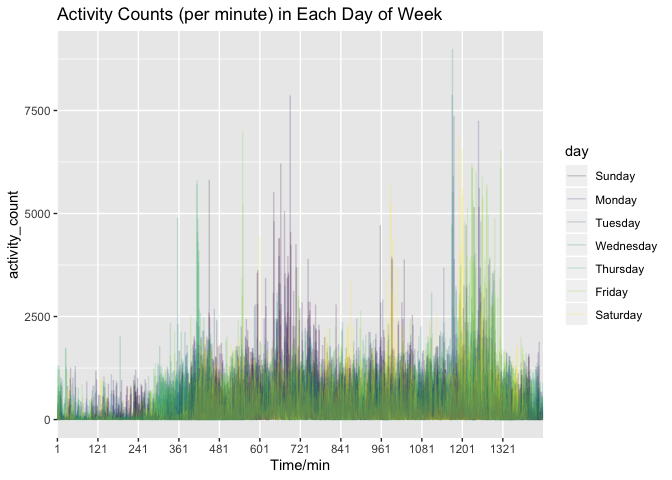
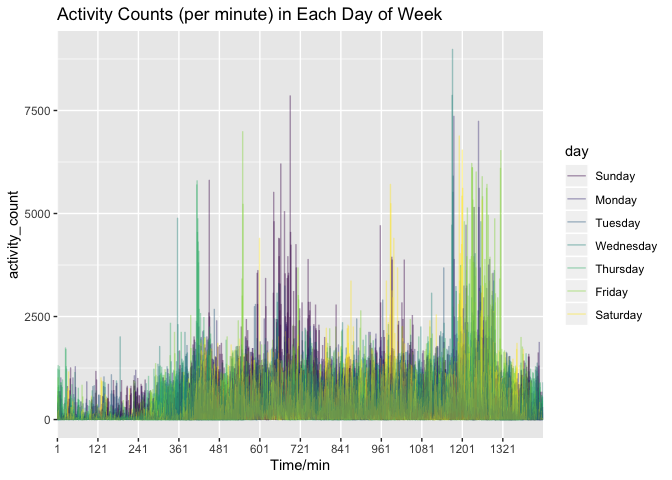
version 2 refine: 1. problem 3 dataframe accelerometer_chf is restructrued with new variable day_order. 2. problem 3 :make daily activity table to wider format. 3.problem 2 dataframe brfss_overall_health: rename two variable: state, location

Changed region(s): [[0.0625, 0.2188, 0.8125, 0.875], [0.8438, 0.5938, 0.875, 0.6562], [0.8438, 0.5, 0.875, 0.5625]]

diff --git a/p8105_hw3_ym2771.md b/p8105_hw3_ym2771.md
@@ -93,10 +93,15 @@ g
 
 ![](p8105_hw3_ym2771_files/figure-gfm/unnamed-chunk-2-1.png)<!-- -->
 
-  - **comments**: There are 39 aisles in total and the top5 most popular
-    aisle is fresh vegetables, fresh fruits, packaged vegetables fruits,
-    yogurt, packaged cheese, reflecting the most urgent demands of
-    online-shopping customers.
+### comments:
+
+In dataset instacart, there are 134 aisles in total. There are 39 aisles
+bigger than 10,000 in total and the top5 most popular aisle is fresh
+vegetables, fresh fruits, packaged vegetables fruits, yogurt, packaged
+cheese, reflecting the most urgent demands of online-shopping customers.
+As shown in the plot, fresh vegetables, fresh fruits are extremely
+popular, the counts of this two aisles are nearly 150,000, far more
+larger than the latter ranks.
 
 ### Make a table showing the three most popular items in three aisles
 
@@ -124,7 +129,7 @@ knitr::kable(instacart_3aisle_table)
 | packaged vegetables fruits | Organic Raspberries                           |  5546 |    2 |
 | packaged vegetables fruits | Organic Blueberries                           |  4966 |    3 |
 
-  - comments:
+### comments:
 
 **Firstly**, there are huge differences among the demands of aisles, the
 maximum overall demand is for packaged vegetables fruits, then baking
@@ -180,9 +185,17 @@ data("brfss_smart2010")
 brfss_overall_health <- 
     brfss_smart2010 %>%
     janitor::clean_names() %>% 
-    filter(topic == "Overall Health", response %in% c("Excellent", "Very good", "Good", "Fair", "Poor")) %>% 
-    mutate(response = factor(response,levels = c("Poor","Fair","Good","Very good","Excellent" ), ordered = T))
+    filter(topic == "Overall Health", response %in% c("Excellent", "Very good", "Good", "Fair", "Poor")) %>%
+    mutate(state = factor(locationabbr), location = locationdesc, response = factor(response,levels = c("Poor","Fair","Good","Very good","Excellent" ), ordered = T)) %>% 
+    select(year, state, location, everything(), -locationabbr, -locationdesc)
 ```
+
+### Data description:
+
+In the total dataset, there are 10625 observations and 23 variables. In
+this analysis, the key variables are year, state, location, data\_value
+and
+response.
 
 ## Exploratary analysis
 
@@ -191,37 +204,37 @@ brfss_overall_health <-
 ``` r
 states_with_7m <- 
     brfss_overall_health %>% 
-    group_by(year, locationabbr) %>% 
-    summarise(count = n_distinct(locationdesc)) %>% 
+    group_by(year, state) %>% 
+    summarise(count = n_distinct(location)) %>% 
     filter(count >= 7, year %in% c(2010,2002)) %>% 
     pivot_wider(names_from = year, values_from = count )
 
 knitr::kable(states_with_7m)
 ```
 
-| locationabbr | 2002 | 2010 |
-| :----------- | ---: | ---: |
-| CT           |    7 |   NA |
-| FL           |    7 |   41 |
-| MA           |    8 |    9 |
-| NC           |    7 |   12 |
-| NJ           |    8 |   19 |
-| PA           |   10 |    7 |
-| CA           |   NA |   12 |
-| CO           |   NA |    7 |
-| MD           |   NA |   12 |
-| NE           |   NA |   10 |
-| NY           |   NA |    9 |
-| OH           |   NA |    8 |
-| SC           |   NA |    7 |
-| TX           |   NA |   16 |
-| WA           |   NA |   10 |
+| state | 2002 | 2010 |
+| :---- | ---: | ---: |
+| CT    |    7 |   NA |
+| FL    |    7 |   41 |
+| MA    |    8 |    9 |
+| NC    |    7 |   12 |
+| NJ    |    8 |   19 |
+| PA    |   10 |    7 |
+| CA    |   NA |   12 |
+| CO    |   NA |    7 |
+| MD    |   NA |   12 |
+| NE    |   NA |   10 |
+| NY    |   NA |    9 |
+| OH    |   NA |    8 |
+| SC    |   NA |    7 |
+| TX    |   NA |   16 |
+| WA    |   NA |   10 |
 
 ### Comment
 
 In 2002, there are overall 6 states having 7 or more locations, while in
 2010, the number of states having 7 or more locations had increased to
-15, and the overlapping states are FL, MA, NC, NJ, PA
+14, and the overlapping states are FL, MA, NC, NJ, PA
 
 ## data\_value plot across locations
 
@@ -229,44 +242,10 @@ In 2002, there are overall 6 states having 7 or more locations, while in
 data_value_plot_data <- 
     brfss_overall_health %>% 
     filter(response == "Excellent") %>% 
-    group_by(year, locationabbr) %>% 
-    summarise(mean_data_value = mean(data_value)) %>% 
-    mutate(locationabbr = factor(locationabbr))
-```
-
-    ## Warning in mutate_impl(.data, dots, caller_env()): Unequal factor levels:
-    ## coercing to character
-
-    ## Warning in mutate_impl(.data, dots, caller_env()): binding character and
-    ## factor vector, coercing into character vector
-    
-    ## Warning in mutate_impl(.data, dots, caller_env()): binding character and
-    ## factor vector, coercing into character vector
-    
-    ## Warning in mutate_impl(.data, dots, caller_env()): binding character and
-    ## factor vector, coercing into character vector
-    
-    ## Warning in mutate_impl(.data, dots, caller_env()): binding character and
-    ## factor vector, coercing into character vector
-    
-    ## Warning in mutate_impl(.data, dots, caller_env()): binding character and
-    ## factor vector, coercing into character vector
-    
-    ## Warning in mutate_impl(.data, dots, caller_env()): binding character and
-    ## factor vector, coercing into character vector
-    
-    ## Warning in mutate_impl(.data, dots, caller_env()): binding character and
-    ## factor vector, coercing into character vector
-    
-    ## Warning in mutate_impl(.data, dots, caller_env()): binding character and
-    ## factor vector, coercing into character vector
-    
-    ## Warning in mutate_impl(.data, dots, caller_env()): binding character and
-    ## factor vector, coercing into character vector
-
-``` r
+    group_by(year, state) %>% 
+    summarise(mean_data_value = mean(data_value)) 
 g <- 
-    ggplot(data = data_value_plot_data,aes(x = year, y = mean_data_value, color = locationabbr)) +
+    ggplot(data = data_value_plot_data,aes(x = year, y = mean_data_value, color = state)) +
     geom_line() + 
     scale_color_viridis(discrete = TRUE,option = "B")
 g
@@ -276,7 +255,7 @@ g
 
 ![](p8105_hw3_ym2771_files/figure-gfm/unnamed-chunk-8-1.png)<!-- -->
 
-  - comment
+### comment
 
 As shown in the figure, the mean data\_value for different years varies
 differently among states. The overall trend of the data\_value of years
@@ -284,12 +263,12 @@ among states are decreasing. The range of mean data\_value of years
 among states is (11.5, 29.46), where the minmum value is from WV in year
 2005, and the maximum value comes from UT in year2002.
 
-### “Data\_value distribution for responses in NY State”
+### Data\_value distribution for responses in NY State
 
 ``` r
 dv_resp_plot_data <- 
     brfss_overall_health %>%  
-    filter(year %in% c(2006,2010), locationabbr == "NY") %>% 
+    filter(year %in% c(2006,2010), state == "NY") %>% 
     mutate(year = factor(year))
 g <- 
     ggplot(dv_resp_plot_data, aes(x = data_value,fill = response)) +
@@ -326,7 +305,9 @@ accelerometer_chf <-
         day = factor(day, levels = weekdays, order = T),
         week = factor(week)
         ) %>% 
-    select(week,day_id,day,week_day_vs_weekend,everything())
+    arrange(week,day) %>% 
+    mutate(day_order = row_number() %/% 1440 + 1) %>% 
+    select(week,day_order,day,week_day_vs_weekend,everything())
 ```
 
     ## Parsed with column specification:
@@ -340,9 +321,9 @@ accelerometer_chf <-
 ### Describe the resulting dataset
 
 This dataset contains the counts of accelerometer activity for every
-miute of a 24-hour day in 5 weeks, with 50400 rows(minutes) and 6
-columns. The variables in the dataset are week, day\_id, day,
-week\_day\_vs\_weekend, activity, activity\_count.
+miute of a 24-hour day in 5 weeks, with 50400 rows(minutes) and 7
+columns. The variables in the dataset are week, day\_order, day,
+week\_day\_vs\_weekend, day\_id, activity, activity\_count.
 
 Traditional analyses of accelerometer data focus on the total activity
 over the day. Using your tidied dataset, aggregate accross minutes to
@@ -353,51 +334,21 @@ showing these totals. Are any trends apparent?
 accelerometer_chf_total <- 
     accelerometer_chf %>% 
     group_by(week,day) %>% 
-    summarise(sum_activity = sum(activity_count))%>% 
-    ungroup() %>% 
-    arrange(week,day) %>% 
-    mutate(day_order = row_number())
-
-knitr::kable(accelerometer_chf_total, caption = "Total Activity for Each Day")
+    summarise(sum_activity = sum(activity_count),day_order = mean(day_order))
+   
+acc_total_table <- accelerometer_chf_total %>%
+    select(-day_order) %>% 
+    pivot_wider(names_from = day, values_from = sum_activity)
+knitr::kable(acc_total_table, caption = "Total Activity for Each Day")
 ```
 
-| week | day       | sum\_activity | day\_order |
-| :--- | :-------- | ------------: | ---------: |
-| 1    | Sunday    |     631105.00 |          1 |
-| 1    | Monday    |      78828.07 |          2 |
-| 1    | Tuesday   |     307094.24 |          3 |
-| 1    | Wednesday |     340115.01 |          4 |
-| 1    | Thursday  |     355923.64 |          5 |
-| 1    | Friday    |     480542.62 |          6 |
-| 1    | Saturday  |     376254.00 |          7 |
-| 2    | Sunday    |     422018.00 |          8 |
-| 2    | Monday    |     295431.00 |          9 |
-| 2    | Tuesday   |     423245.00 |         10 |
-| 2    | Wednesday |     440962.00 |         11 |
-| 2    | Thursday  |     474048.00 |         12 |
-| 2    | Friday    |     568839.00 |         13 |
-| 2    | Saturday  |     607175.00 |         14 |
-| 3    | Sunday    |     467052.00 |         15 |
-| 3    | Monday    |     685910.00 |         16 |
-| 3    | Tuesday   |     381507.00 |         17 |
-| 3    | Wednesday |     468869.00 |         18 |
-| 3    | Thursday  |     371230.00 |         19 |
-| 3    | Friday    |     467420.00 |         20 |
-| 3    | Saturday  |     382928.00 |         21 |
-| 4    | Sunday    |     260617.00 |         22 |
-| 4    | Monday    |     409450.00 |         23 |
-| 4    | Tuesday   |     319568.00 |         24 |
-| 4    | Wednesday |     434460.00 |         25 |
-| 4    | Thursday  |     340291.00 |         26 |
-| 4    | Friday    |     154049.00 |         27 |
-| 4    | Saturday  |       1440.00 |         28 |
-| 5    | Sunday    |     138421.00 |         29 |
-| 5    | Monday    |     389080.00 |         30 |
-| 5    | Tuesday   |     367824.00 |         31 |
-| 5    | Wednesday |     445366.00 |         32 |
-| 5    | Thursday  |     549658.00 |         33 |
-| 5    | Friday    |     620860.00 |         34 |
-| 5    | Saturday  |       1440.00 |         35 |
+| week | Sunday |    Monday |  Tuesday | Wednesday | Thursday |   Friday | Saturday |
+| :--- | -----: | --------: | -------: | --------: | -------: | -------: | -------: |
+| 1    | 631105 |  78828.07 | 307094.2 |    340115 | 355923.6 | 480542.6 |   376254 |
+| 2    | 422018 | 295431.00 | 423245.0 |    440962 | 474048.0 | 568839.0 |   607175 |
+| 3    | 467052 | 685910.00 | 381507.0 |    468869 | 371230.0 | 467420.0 |   382928 |
+| 4    | 260617 | 409450.00 | 319568.0 |    434460 | 340291.0 | 154049.0 |     1440 |
+| 5    | 138421 | 389080.00 | 367824.0 |    445366 | 549658.0 | 620860.0 |     1440 |
 
 Total Activity for Each Day
 
@@ -430,7 +381,7 @@ in words any patterns or conclusions you can make based on this graph.
 ``` r
 accelerometer_chf %>% 
     ggplot(aes(x = activity, y = activity_count, color = day)) +
-    geom_line(alpha = 0.2) +
+    geom_line(alpha = 0.4) +
     scale_x_discrete(name = "Time/min", breaks = seq(1,1440,120))+
     labs(title = "Activity Counts (per minute) in Each Day of Week")+
     scale_fill_brewer(palette="Set2")
@@ -465,4 +416,6 @@ time(11am-2pm), the activity counts are relatively low, which may
 indicates the mid-day breaks; during afternoon(2pm-5pm), the activity is
 growing again, but not as high as the morning peak; The highest activity
 counts falls in night(8pm-9pm), which may indicate that the object has
-the most Vigorous Activities at early night.
+the most Vigorous Activities at early night. There are also day to day
+variance among weekdays, as shown in minute plot, in sunday, the
+activity peak is at around 10am.
